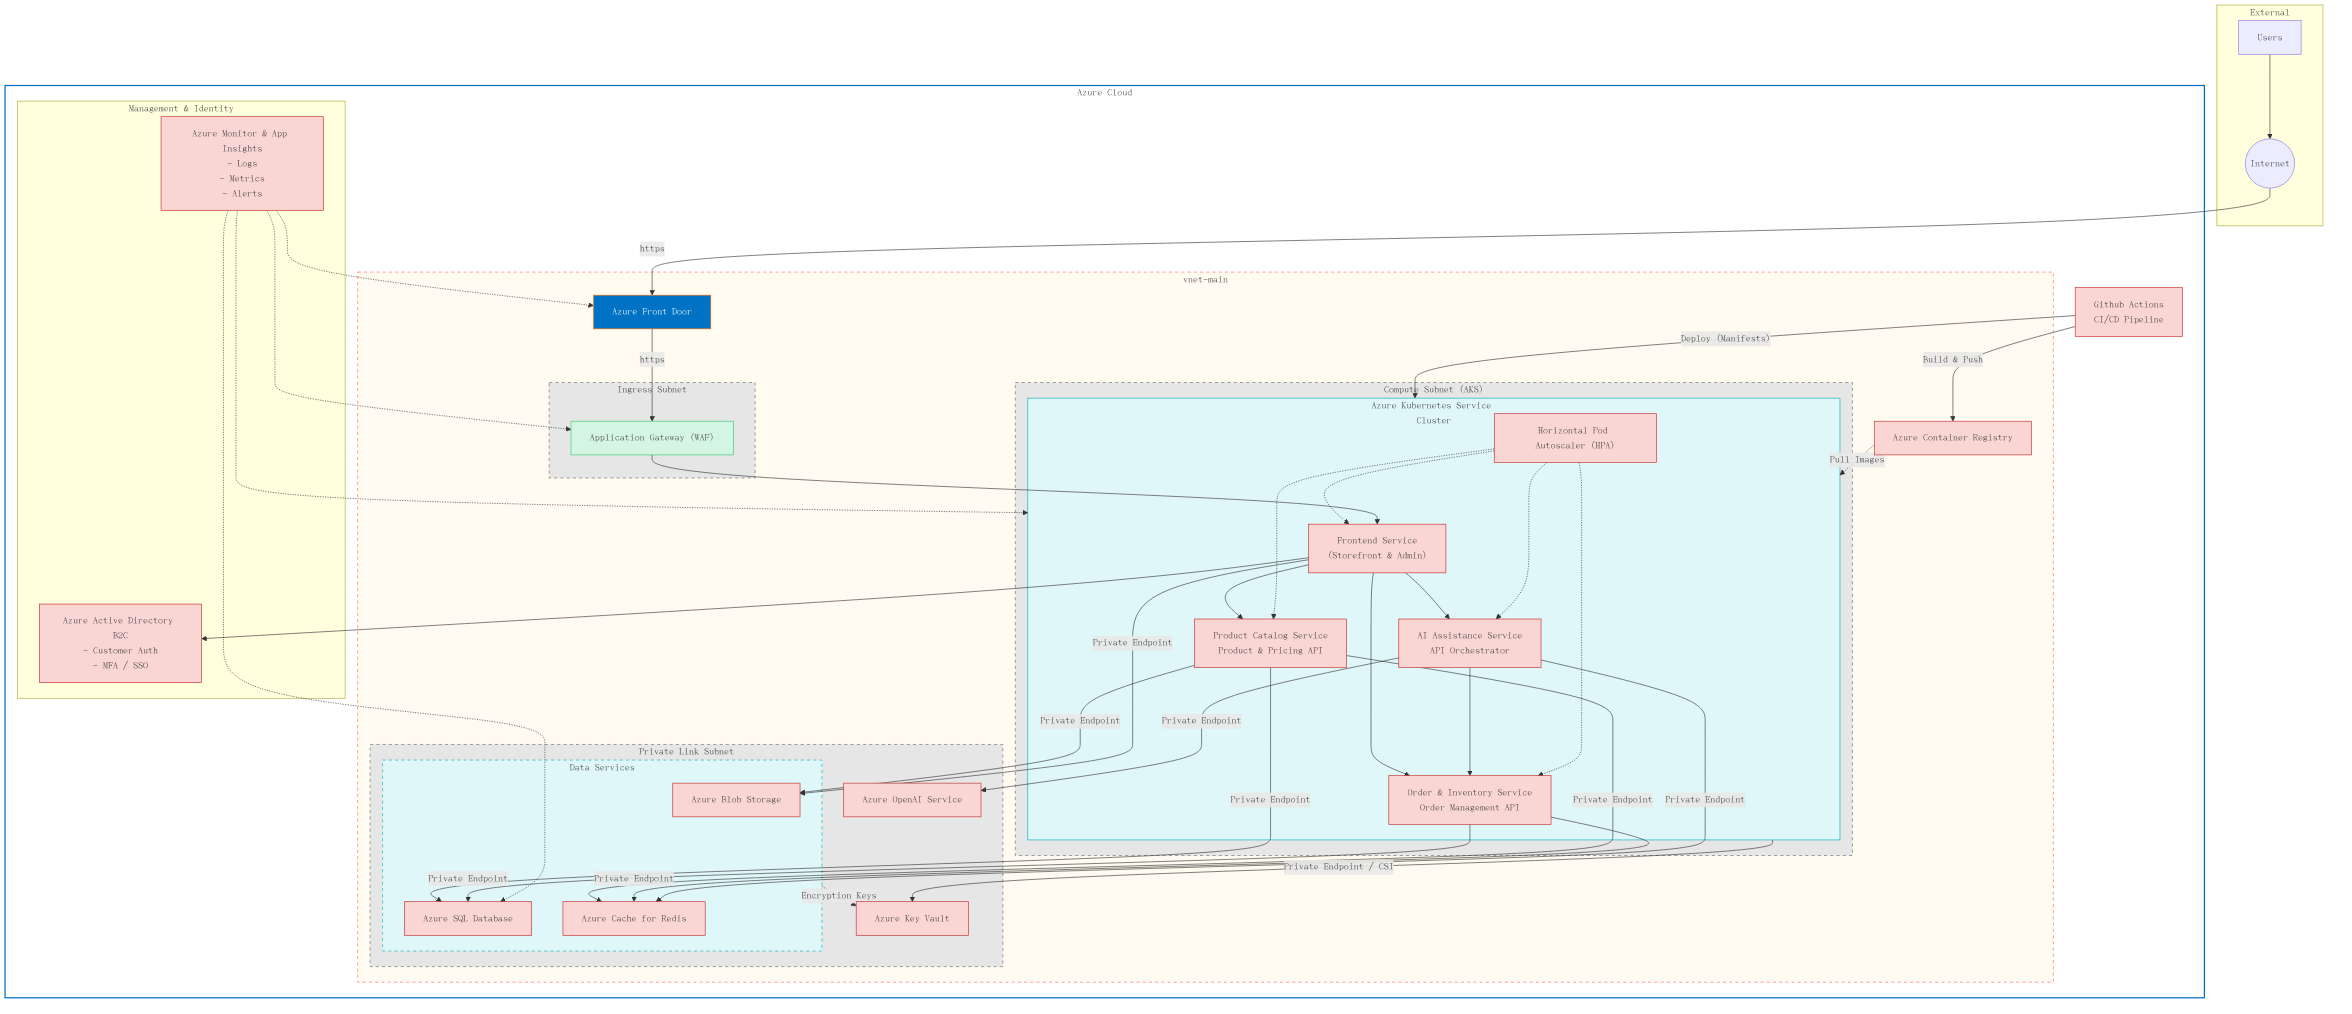
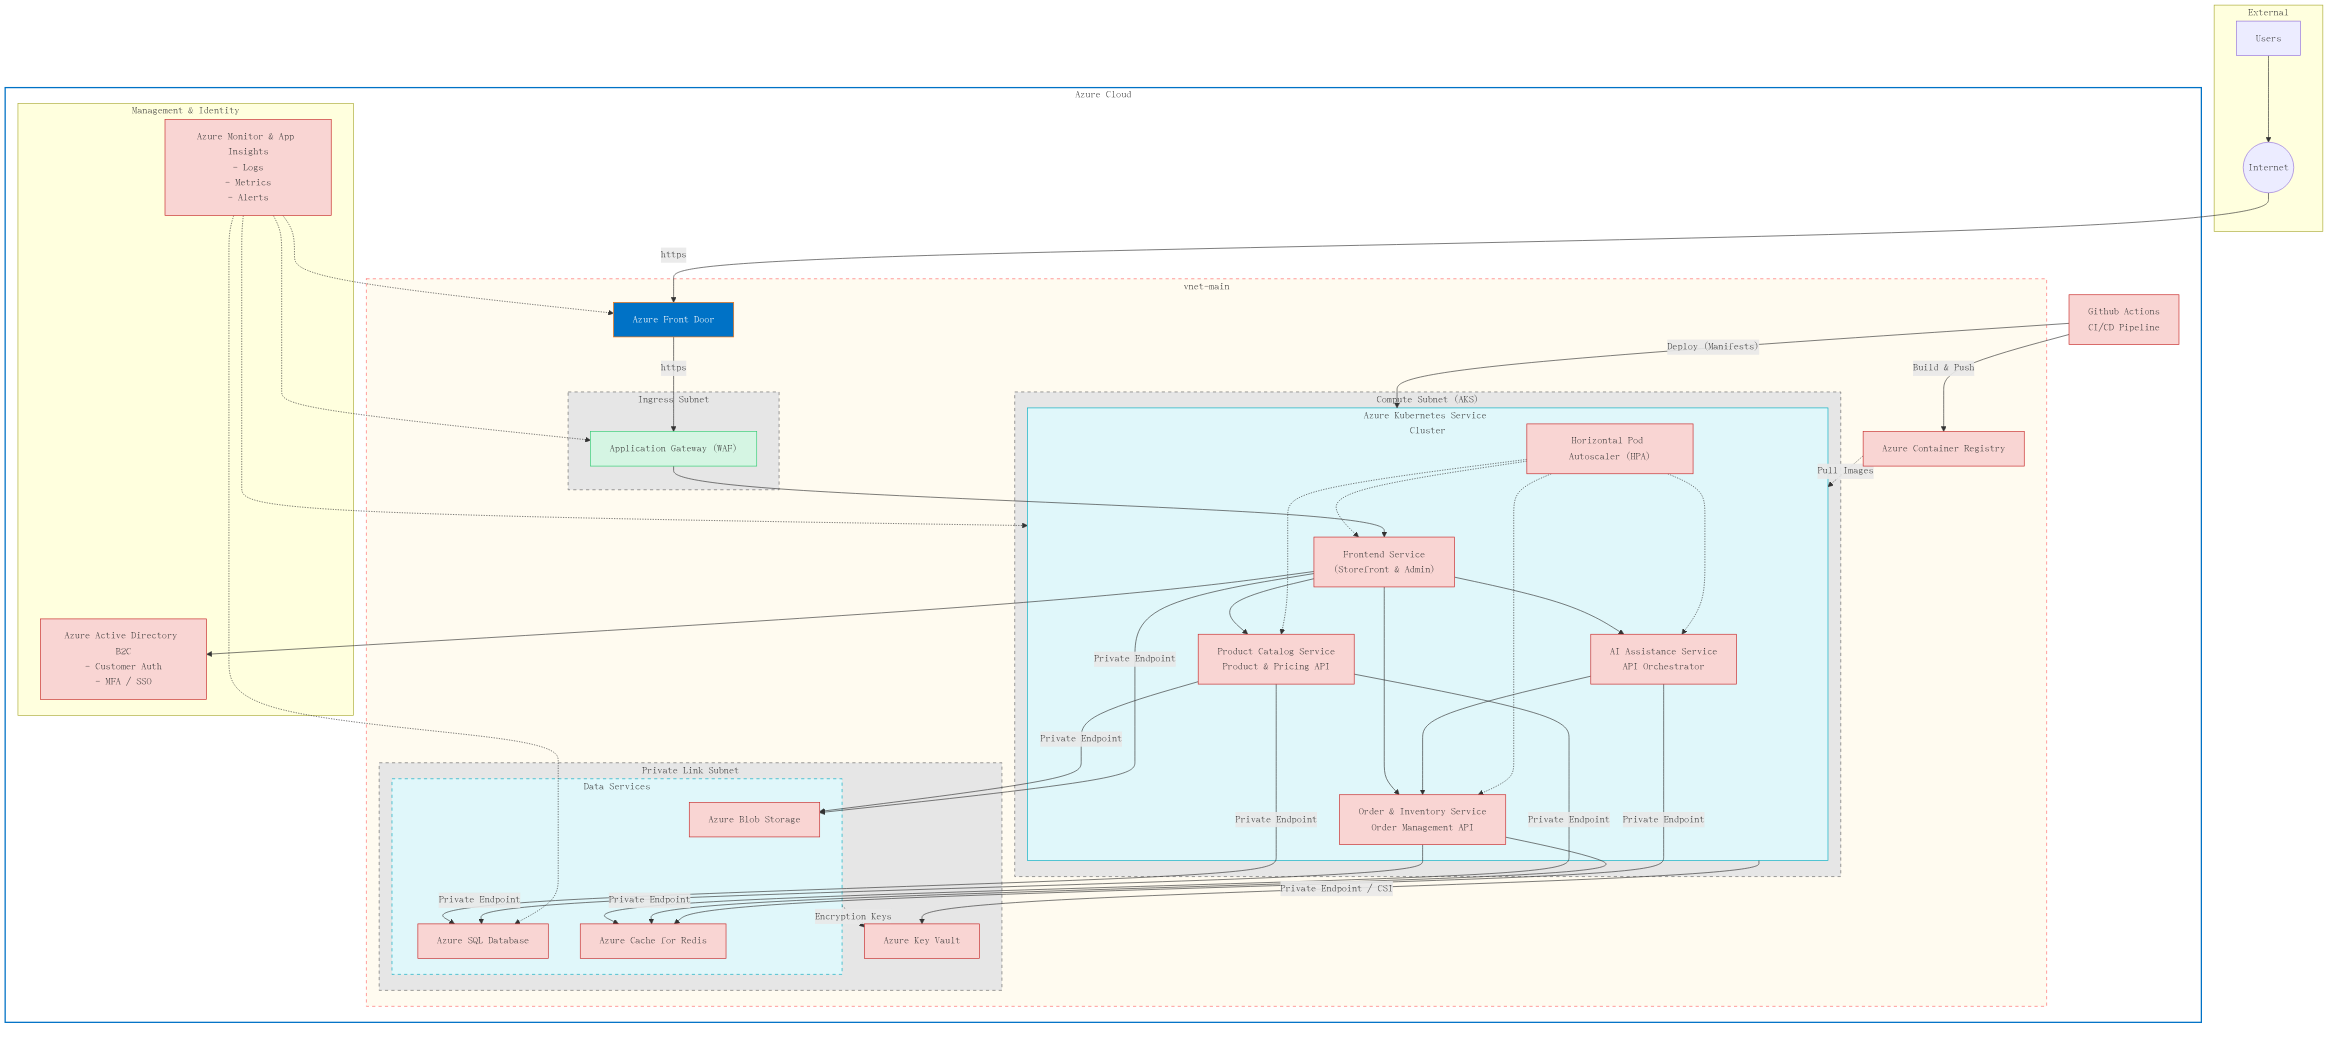
Remove Azure OpenAI service from architecture, with note that it might be readded in the future

diff --git a/architecture/CLOUD_README.md b/architecture/CLOUD_README.md
@@ -4,132 +4,176 @@ This document outlines the target cloud architecture for the AI-assisted Online 
 
 ## Architecture Diagram (Mermaid)
 
-The following diagram represents the **Phase 2 Target State** (Kubernetes Microservices), evolving from the Phase 1 (App Service PaaS) model.
+The following diagram represents the **Phase 2 Target State** (Kubernetes Microservices), optimized for security and high availability.
+
+![Cloud Architecture](cloud_architecture.png)
 
 ```mermaid
 graph TD
-    %% User Layer
-    subgraph Clients
-        Customer[Customer (Web/Mobile)]
-        Admin[Shop Administrator]
+    %% External Actors
+    subgraph External ["External"]
+        Users[Users]
+        Internet((Internet))
+        Users --> Internet
     end
 
-    %% Edge Layer
-    subgraph Azure_Edge [Azure Edge Services]
-        AFD[Azure Front Door]
-        WAF[Web Application Firewall]
-        CDN[Azure CDN]
-        AFD --> WAF
-        AFD --> CDN
-    end
+    %% Azure Cloud Boundary
+    subgraph Azure ["Azure Cloud"]
+        style Azure fill:#fff,stroke:#0072C6,stroke-width:2px
 
-    %% Identity & Security
-    subgraph Identity_Security [Identity & Security]
-        ADB2C[Azure AD B2C]
-        KV[Azure Key Vault]
-    end
+        %% Edge Services
+        FD["Azure Front Door"]
+        style FD fill:#0072C6,color:#fff
+        Internet -- https --> FD
 
-    %% Compute Layer (AKS)
-    subgraph AKS_Cluster [Azure Kubernetes Service (AKS)]
-        Ingress[App Gateway Ingress Controller]
-        
-        subgraph Pods
-            WebPod[oslp-web (Frontend)]
-            AIPod[oslp-ai (AI Advisor)]
-            CorePod[oslp-core (Commerce API)]
-            SecretPod[secret-provider]
+        %% External Management Services
+        subgraph Management ["Management & Identity"]
+            ADB2C["Azure Active Directory B2C<br/>- Customer Auth<br/>- MFA / SSO"]
+            Monitor["Azure Monitor & App Insights<br/>- Logs<br/>- Metrics<br/>- Alerts"]
         end
+        
+        %% CI/CD
+        Github["Github Actions<br/>CI/CD Pipeline"]
 
-        HPA[Horizontal Pod Autoscaler]
+        %% VNET
+        subgraph VNet ["vnet-main"]
+            style VNet fill:#fffbf0,stroke:#f66,stroke-dasharray: 5 5
+
+            %% Subnet 1: Ingress (Dedicated Subnet required for App Gateway)
+            subgraph Subnet_Ingress ["Ingress Subnet"]
+                style Subnet_Ingress fill:#e6e6e6,stroke:#666,stroke-dasharray: 5 5
+                AGW["Application Gateway (WAF)"]
+            end
+
+            %% Subnet 2: Compute
+            subgraph Subnet_Compute ["Compute Subnet (AKS)"]
+                style Subnet_Compute fill:#e6e6e6,stroke:#666,stroke-dasharray: 5 5
+
+                %% AKS Cluster
+                subgraph AKS ["Azure Kubernetes Service Cluster"]
+                    style AKS fill:#e0f7fa,stroke:#00acc1
+
+                    %% Microservices
+                    Web_Svc["Frontend Service<br/>(Storefront & Admin)"]
+                    AI_Svc["AI Assistance Service<br/>API Orchestrator"]
+                    Product_Svc["Product Catalog Service<br/>Product & Pricing API"]
+                    Order_Svc["Order & Inventory Service<br/>Order Management API"]
+                    
+                    HPA["Horizontal Pod Autoscaler (HPA)"]
+
+                    %% Service Communication
+                    Web_Svc --> AI_Svc
+                    Web_Svc --> Product_Svc
+                    Web_Svc --> Order_Svc
+                    
+                    %% Orchestrator Logic
+                    AI_Svc --> Order_Svc
+                    
+                    %% HPA Scaling Relationships
+                    HPA -.-> Web_Svc
+                    HPA -.-> AI_Svc
+                    HPA -.-> Product_Svc
+                    HPA -.-> Order_Svc
+                end
+            end
+
+            %% Container Registry (Connected via Private Endpoint)
+            ACR["Azure Container Registry"]
+
+            %% Subnet 3: Private Link / PaaS Services
+            subgraph Subnet_PaaS ["Private Link Subnet"]
+                style Subnet_PaaS fill:#e6e6e6,stroke:#666,stroke-dasharray: 5 5
+                
+                %% Data Services
+                subgraph Data_Box ["Data Services"]
+                    style Data_Box fill:#e0f7fa,stroke:#00acc1,stroke-dasharray: 5 5
+                    Blob["Azure Blob Storage"]
+                    SQL["Azure SQL Database"]
+                    Redis["Azure Cache for Redis"]
+                end
+
+                %% AI & Security PaaS (Moved out of AKS)
+                KV["Azure Key Vault"]
+            end
+            
+            %% Traffic Flow
+            FD -- https --> AGW
+            AGW --> Web_Svc
+
+            %% Correct Data Access Paths (Pods -> Private Link)
+            Product_Svc -->|Private Endpoint| SQL
+            Order_Svc -->|Private Endpoint| SQL
+            
+            Product_Svc -->|Private Endpoint| Redis
+            Order_Svc -->|Private Endpoint| Redis
+            AI_Svc -->|Private Endpoint| Redis
+
+            Product_Svc -->|Private Endpoint| Blob
+            Web_Svc -->|Private Endpoint| Blob
+
+            %% Secrets Access
+            AKS -->|Private Endpoint / CSI| KV
+            Data_Box -.->|Encryption Keys| KV
+
+        end
     end
 
-    %% AI Services
-    subgraph AI_Services [Azure AI]
-        OpenAI[Azure OpenAI Service]
-        AISearch[Azure AI Search]
-    end
-
-    %% Data Layer
-    subgraph Data_Services [Data Services (VNet Secured)]
-        SQL[Azure SQL Database]
-        Redis[Azure Cache for Redis]
-        Blob[Azure Blob Storage]
-    end
-
-    %% DevOps & Monitoring
-    subgraph DevOps [DevOps & Management]
-        ACR[Azure Container Registry]
-        Monitor[Azure Monitor / Log Analytics]
-        Pipelines[Azure DevOps Pipelines]
-    end
-
-    %% Connections
-    Customer -->|HTTPS| AFD
-    Admin -->|HTTPS| AFD
+    %% CI/CD Flow
+    Github -->|Build & Push| ACR
+    Github -->|"Deploy (Manifests)"| AKS
+    ACR -.->|Pull Images| AKS
     
-    AFD -->|Traffic Route| Ingress
+    %% Management Connections
+    Web_Svc --> ADB2C
     
-    Ingress --> WebPod
-    Ingress --> CorePod
-    
-    %% Application Logic
-    WebPod -->|API Calls| CorePod
-    WebPod -->|Auth| ADB2C
-    
-    CorePod -->|Read/Write| SQL
-    CorePod -->|Cache| Redis
-    CorePod -->|Images/Logs| Blob
-    CorePod -->|Search| AISearch
-
-    %% AI Integration
-    WebPod -->|Chat| AIPod
-    AIPod -->|Inference| OpenAI
-    AIPod -->|Context| Redis
-
-    %% Security & Secrets
-    SecretPod -.->|Mount Secrets| WebPod
-    SecretPod -.->|Mount Secrets| CorePod
-    SecretPod -.->|Mount Secrets| AIPod
-    SecretPod -->|Fetch| KV
-
-    %% Deployment
-    Pipelines -->|Build & Push| ACR
-    Pipelines -->|Deploy| AKS_Cluster
-
     %% Monitoring
-    Monitor -.->|Logs & Metrics| AKS_Cluster
-    Monitor -.->|Logs| SQL
-    Monitor -.->|Logs| AFD
+    Monitor -.-> AKS
+    Monitor -.-> SQL
+    Monitor -.-> FD
+    Monitor -.-> AGW
 ```
 
 ## Component Breakdown
 
 ### 1. Edge & Entry
 - **Azure Front Door**: Global load balancer with CDN capabilities to ensure low latency and high availability.
-- **WAF (Web Application Firewall)**: Protects against common web exploits (OWASP top 10).
+- **Application Gateway (WAF)**: Regional load balancer deployed in a dedicated `Ingress Subnet`. Protects the AKS cluster from web vulnerabilities (OWASP Top 10).
 
 ### 2. Compute (AKS)
-- **Ingress Controller**: Routes incoming traffic to the appropriate service pods.
-- **oslp-web**: The frontend application (Flask/Jinja2) serving the UI.
-- **oslp-core**: The backend commerce API handling business logic.
-- **oslp-ai**: Dedicated service for managing AI interactions.
-- **Horizontal Pod Autoscaler (HPA)**: Automatically scales pods based on CPU/Memory usage.
+- **Azure Kubernetes Service (AKS)**: Hosted in the `Compute Subnet`.
+- **Microservices**:
+    - `Frontend`: Storefront and Admin UI.
+    - `Product`: Catalog and Pricing API.
+    - `Order`: Inventory and Order Management.
+    - `AI Orchestrator`: Manages interaction with Azure OpenAI.
+- **Scaling**: Horizontal Pod Autoscaler (HPA) adjusts replica counts based on demand.
 
-### 3. Data & Storage
-- **Azure SQL Database**: Managed relational database for persistent data (Users, Orders, Products).
-- **Azure Cache for Redis**: In-memory data store for session management and high-speed caching.
-- **Azure Blob Storage**: Stores unstructured data like product images and logs.
+### 3. Networking & Security
+- **VNet Structure**:
+    - `Ingress Subnet`: Dedicated for Application Gateway.
+    - `Compute Subnet`: Dedicated for AKS Nodes.
+    - `Private Link Subnet`: Hosting Private Endpoints for PaaS resources.
+- **Private Link**: Ensures traffic between AKS and Data/AI services travels over the Microsoft backbone network, never the public internet.
+- **Azure AD B2C**: Handles customer identity.
+- **Azure Key Vault**: Stores secrets, accessed via CSI Driver or Private Link.
 
-### 4. Artificial Intelligence
-- **Azure OpenAI Service**: Powers the "Virtual Advisor" for personalized shopping experiences.
-- **Azure AI Search**: Enhances product discovery with intelligent search capabilities.
+### 4. Data & AI (PaaS)
+- **Azure SQL Database**: Relational store.
+- **Azure Cache for Redis**: High-performance caching.
+- **Azure Blob Storage**: Media assets.
+- **Note**: *Azure OpenAI Service* is currently omitted in favor of direct API usage but is planned for future phases to enhance security and compliance.
 
-### 5. Security & Identity
-- **Azure AD B2C**: Handles customer identity management (Sign-up, Sign-in).
-- **Azure Key Vault**: securely stores secrets, keys, and certificates.
-- **Private Endpoints**: Ensures traffic between apps and data services remains on the Microsoft backbone network, not the public internet.
+## Infrastructure as Code (Terraform)
 
-### 6. DevOps
-- **Azure DevOps Pipelines**: CI/CD for automated testing and deployment.
-- **Azure Container Registry**: Stores Docker images.
-- **Azure Monitor**: Provides full-stack observability.
+The infrastructure is defined using Terraform in the `infrastructure/terraform` directory.
+
+### Prerequisites
+- Terraform >= 1.0
+- Azure CLI
+- Active Azure Subscription
+
+### Deployment
+1. `cd infrastructure/terraform`
+2. `terraform init`
+3. `terraform plan -out main.tfplan`
+4. `terraform apply main.tfplan`
